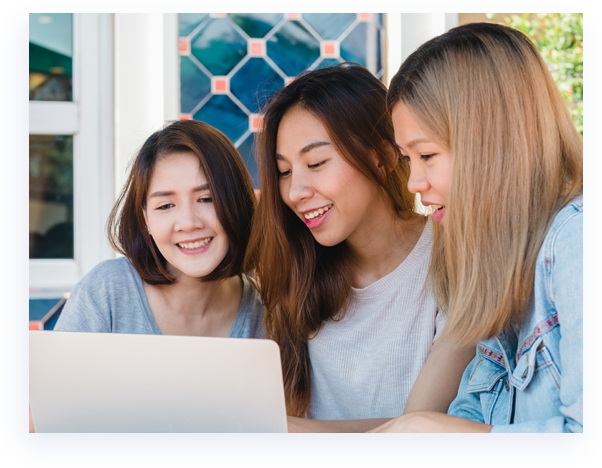
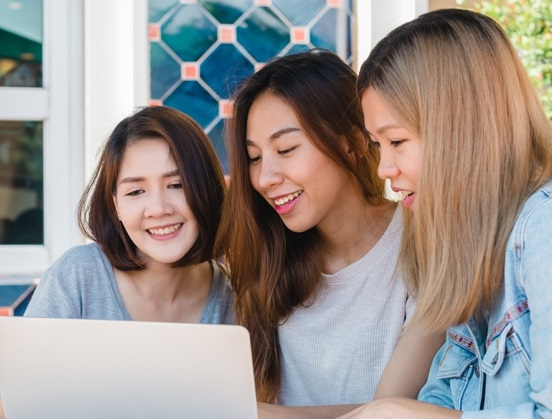
Fix ui reponsive issues for navigation bar and about us page

diff --git a/src/components/Layout/Header/styled.js b/src/components/Layout/Header/styled.js
@@ -11,7 +11,28 @@ export const HeaderWrapper = styled.nav`
 `;
 
 export const NavIcon = styled.div`
-  min-width: 10rem;
+  display: flex;
+  align-items: center;
+  svg {
+    height: 2.5rem;
+    width: 2.5rem;
+  }
+  span {
+    margin-left: 1rem;
+    color: var(--primary-color);
+    font-size: 20px;
+    font-weight: 600;
+  }
+  @media only screen and (max-width: 414px) {
+    span {
+      margin-left: 0.5rem;
+      font-size: 16px;
+    }
+    svg {
+      height: 1.8rem;
+      width: 1.8rem;
+    }
+  }
 `;
 
 export const ToggleSection = styled.div`
@@ -105,7 +126,7 @@ export const Sidebar = styled.div`
   height: 100vh;
   width: 100vw;
   position: fixed;
-  top: 4rem;
+  top: 4.5rem;
   bottom: 0;
   left: 0;
   right: 0;
@@ -118,7 +139,7 @@ export const Sidebar = styled.div`
 `;
 
 export const SidebarWrapper = styled.div`
-  height: 100%;
+  height: 100vh;
   overflow: auto;
   background-color: #fffcf7;
   transition: 0.5s all ease;

diff --git a/src/constants/Images/Logo.js b/src/constants/Images/Logo.js
@@ -1,0 +1,11 @@
+import React from "react";
+
+function Logo() {
+  return (
+    <svg xmlns="http://www.w3.org/2000/svg" viewBox="0 0 512 512">
+      <path d="M352 96c0-53.02-42.98-96-96-96s-96 42.98-96 96 42.98 96 96 96 96-42.98 96-96zM233.59 241.1c-59.33-36.32-155.43-46.3-203.79-49.05C13.55 191.13 0 203.51 0 219.14v222.8c0 14.33 11.59 26.28 26.49 27.05 43.66 2.29 131.99 10.68 193.04 41.43 9.37 4.72 20.48-1.71 20.48-11.87V252.56c-.01-4.67-2.32-8.95-6.42-11.46zm248.61-49.05c-48.35 2.74-144.46 12.73-203.78 49.05-4.1 2.51-6.41 6.96-6.41 11.63v245.79c0 10.19 11.14 16.63 20.54 11.9 61.04-30.72 149.32-39.11 192.97-41.4 14.9-.78 26.49-12.73 26.49-27.06V219.14c-.01-15.63-13.56-28.01-29.81-27.09z"></path>
+    </svg>
+  );
+}
+
+export default Logo;

diff --git a/src/components/Layout/Header/index.js b/src/components/Layout/Header/index.js
@@ -13,6 +13,7 @@ import config from "./config";
 import { useState } from "react";
 import { useHistory } from "react-router";
 import { Content } from "../../../globalStyles";
+import Logo from "../../../constants/Images/Logo";
 
 const Header = () => {
   const [isSidebarActive, setIsSidebarActive] = useState(false),
@@ -33,7 +34,8 @@ const Header = () => {
     <Content>
       <HeaderWrapper>
         <NavIcon>
-          <h3>Neel Classes</h3>
+          <Logo />
+          <span>Neel Classes</span>
         </NavIcon>
         <Links isSidebar={false}>
           {config.navLinks.map((link, index) => (

diff --git a/src/components/AboutUs/styled.js b/src/components/AboutUs/styled.js
@@ -60,6 +60,11 @@ export const ContentSection = styled.div`
     align-items: center;
     max-width: 400px;
   }
+  @media only screen and (max-width: 414px) {
+    img {
+      width: 100%;
+    }
+  }
 `;
 
 export const Image = styled.img`
@@ -74,6 +79,10 @@ export const TextSection = styled.div`
   margin: 2rem;
   margin-bottom: 0;
   height: 100%;
+  @media only screen and (max-width: 840px) {
+    margin: 0;
+    margin-top: 2rem;
+  }
 `;
 
 export const ContentHeading = styled.h2`

diff --git a/src/globalStyles.js b/src/globalStyles.js
@@ -38,6 +38,9 @@ const GlobalStyles = createGlobalStyle`
     color: var(--primary-color);
     font-size: 18px;
   }
+  img {
+    width: 100%;
+  }
 `;
 
 export default GlobalStyles;
